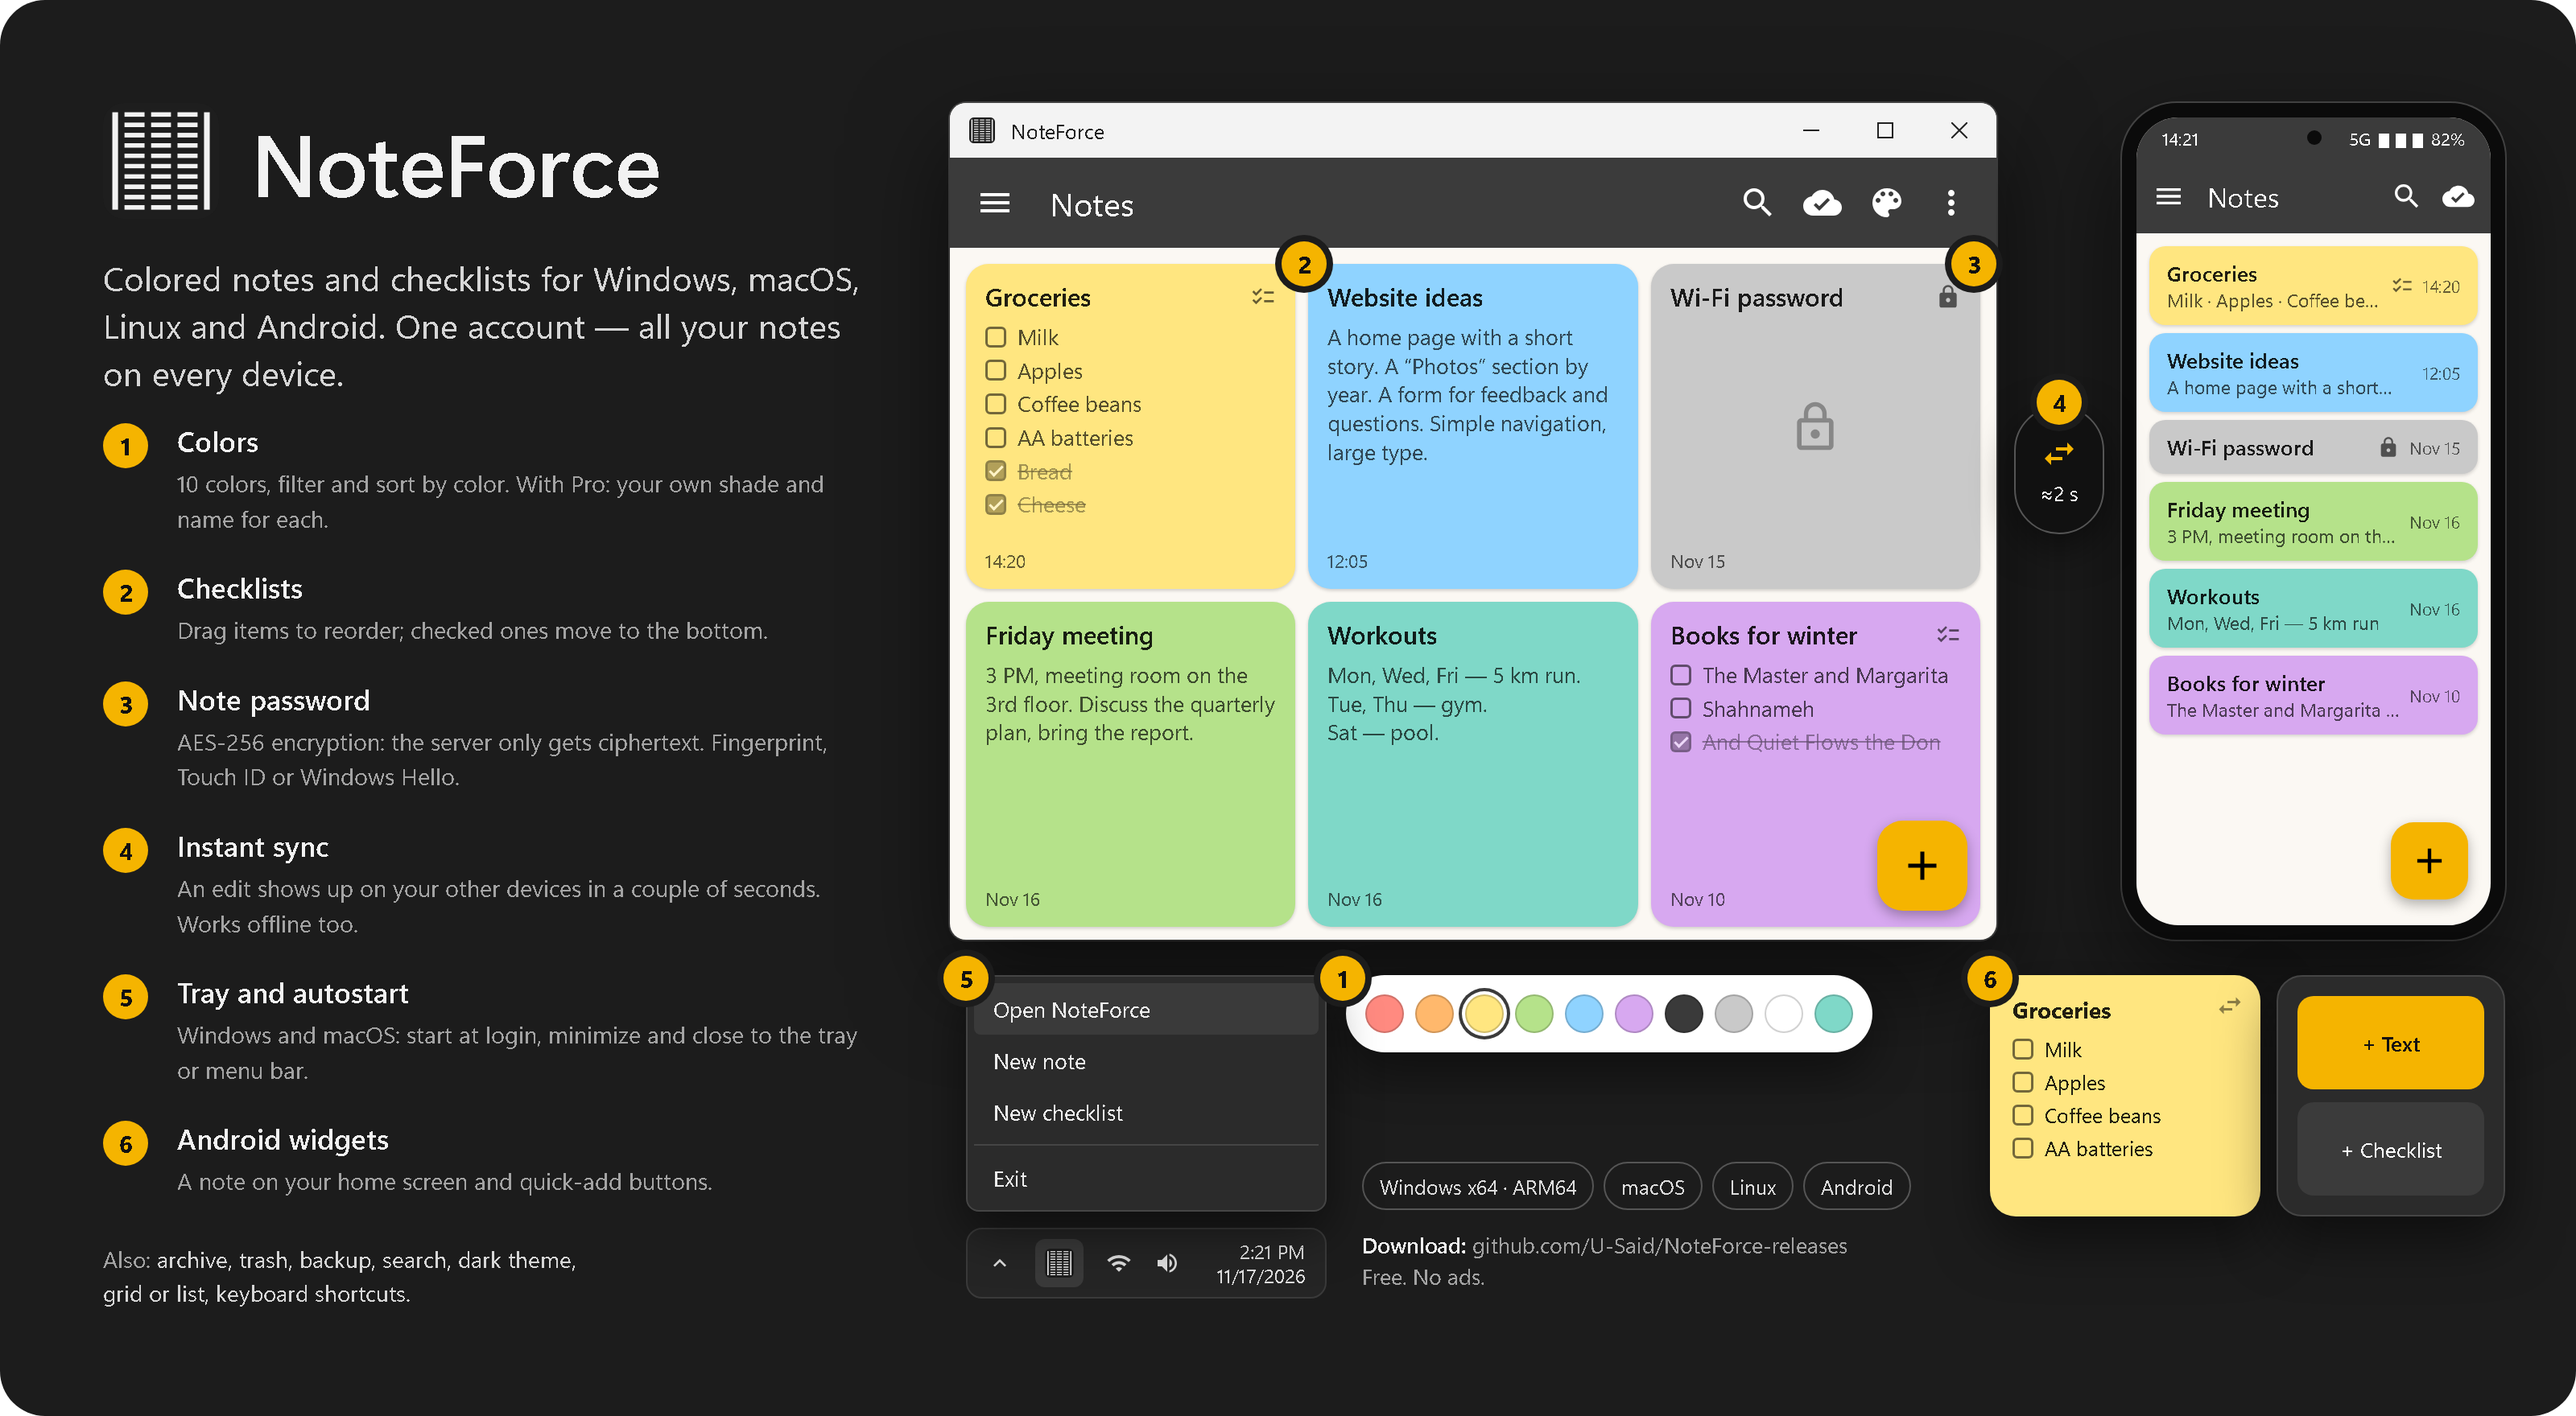
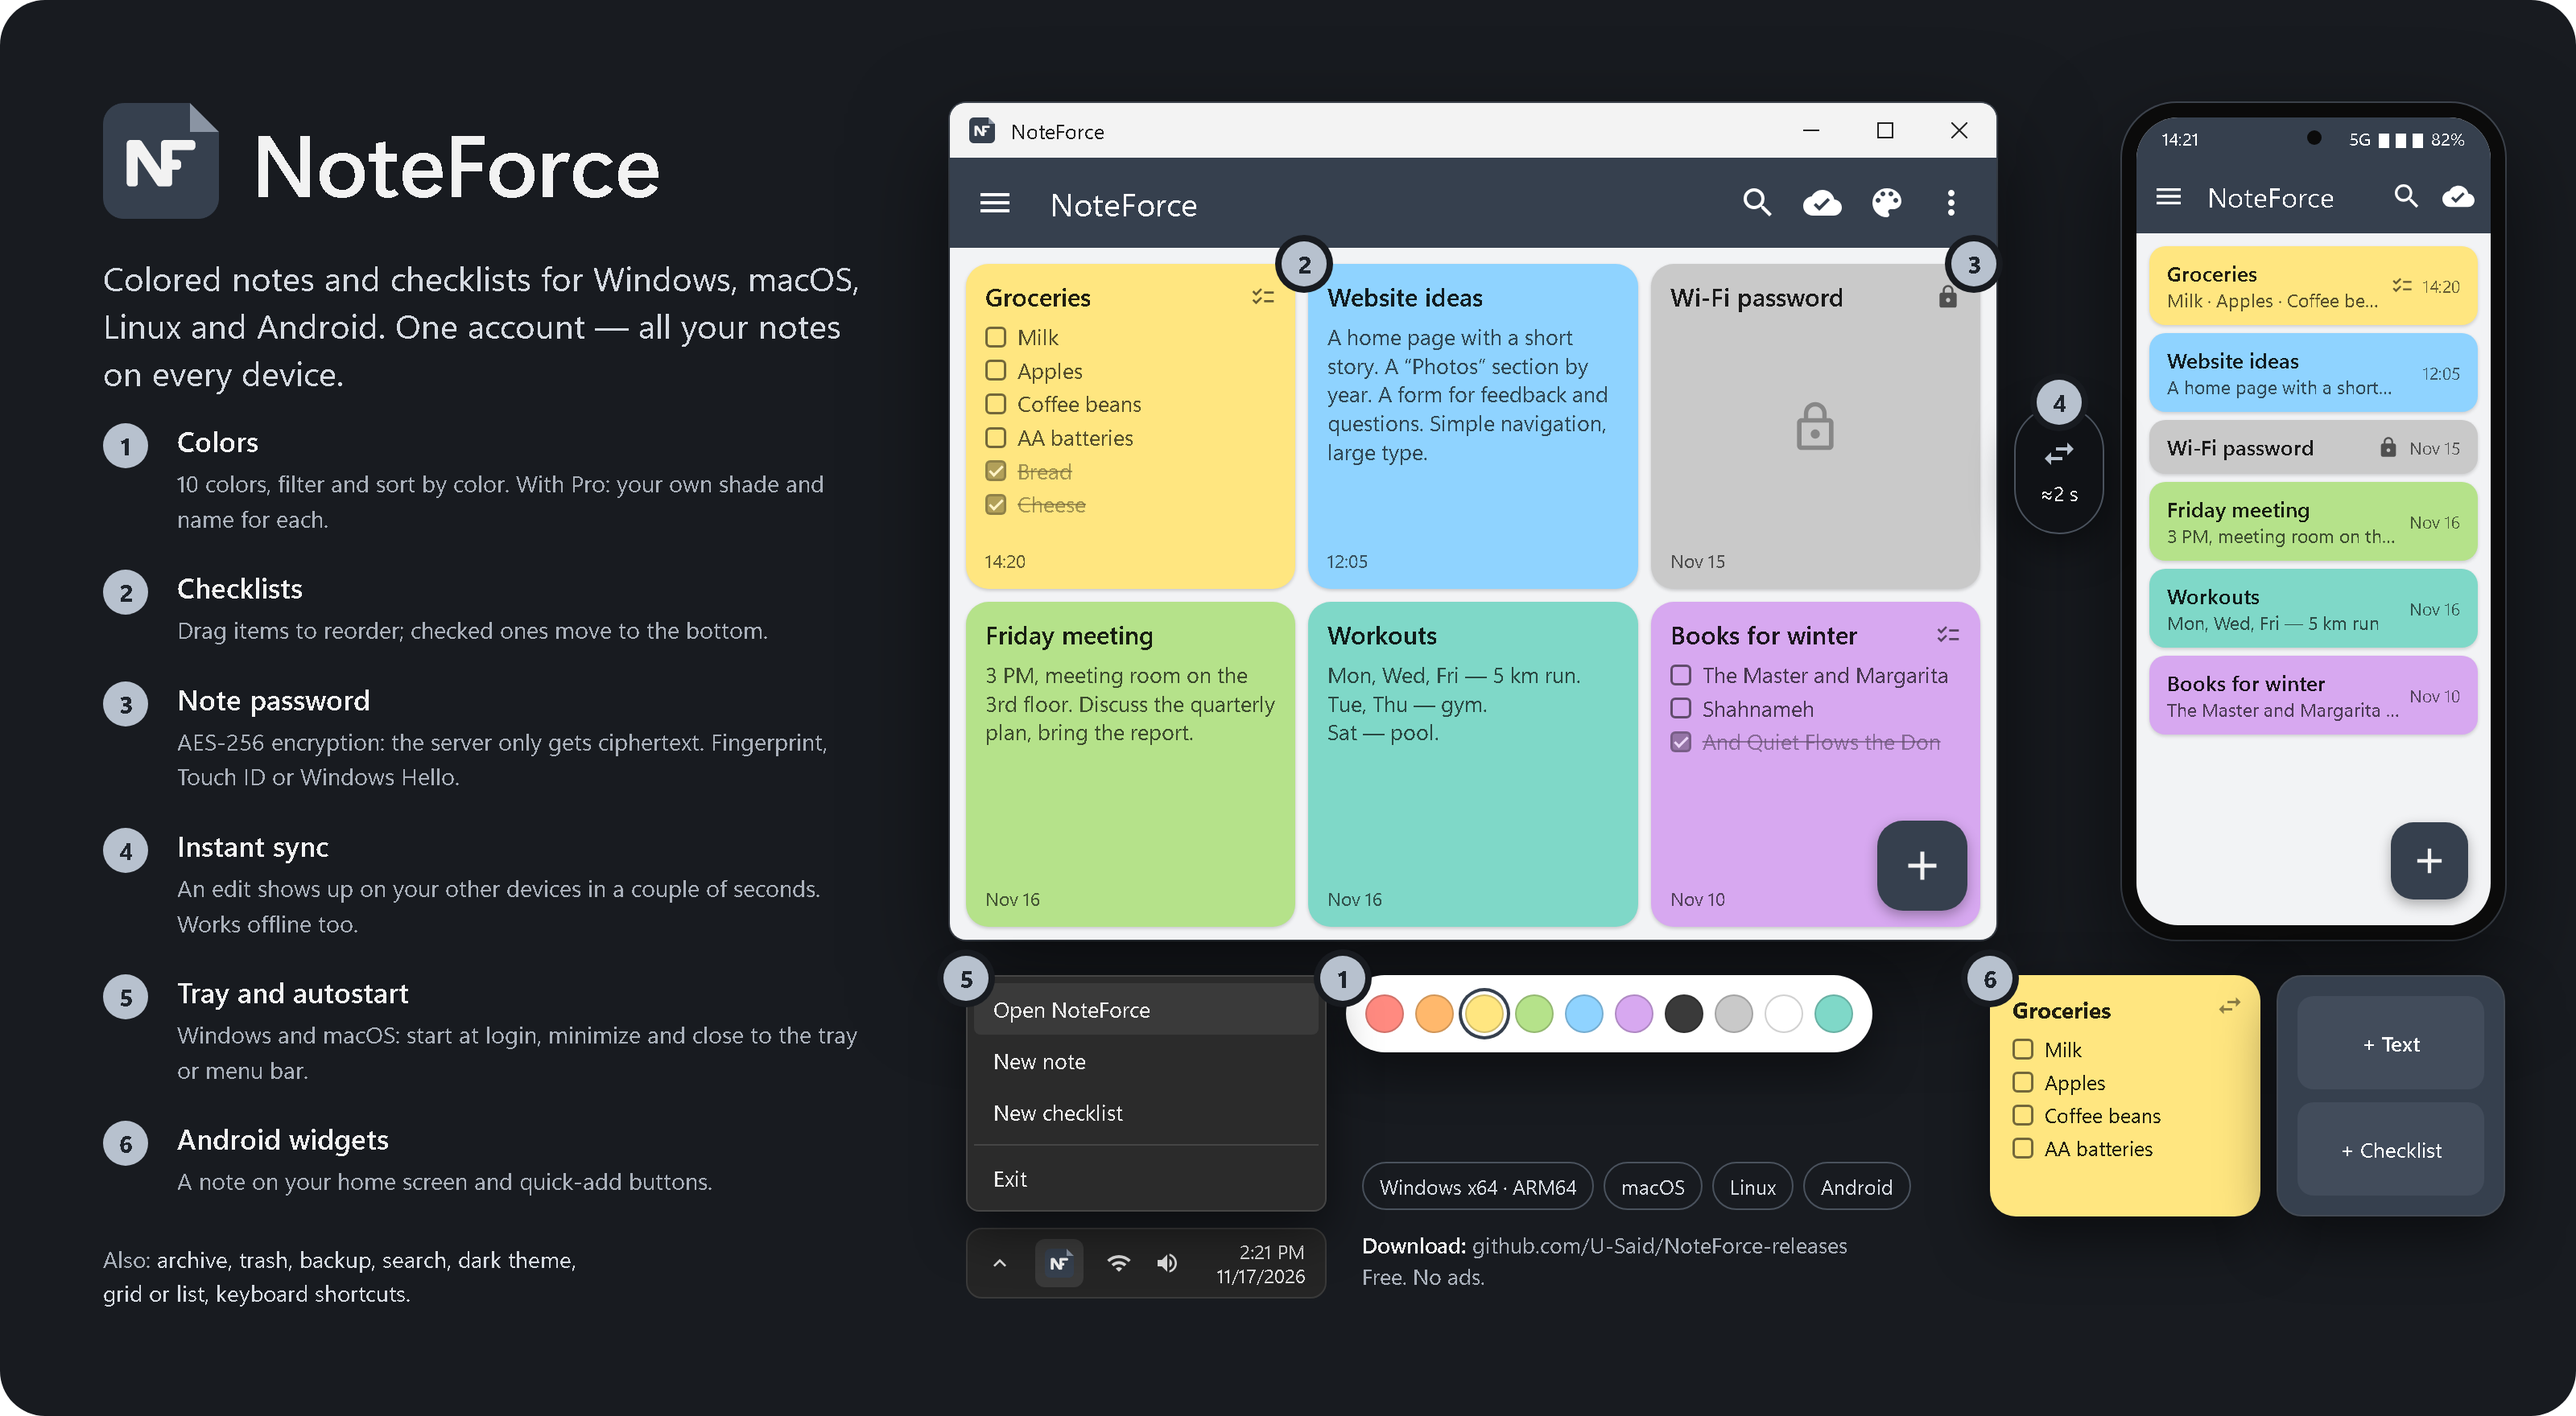
NoteForce 1.6.3: new look and billboard; password entered once
- assets/billboard.png in the new slate colors with the NF icon.
- Feature 3: the password is entered once and the note opens by itself; on a computer locked
  notes stay open until the window is closed to the tray or the app quits, on Android until you leave.
- Note that Windows on ARM, macOS and Linux are still 1.6.2 for now.

diff --git a/README.md b/README.md
@@ -17,6 +17,8 @@ Colored notes and checklists for Windows, macOS, Linux and Android. One account 
 | **macOS 12 or later** (Apple Silicon and Intel) | [NoteForce-macOS.zip](https://github.com/U-Said/NoteForce-releases/releases/latest/download/NoteForce-macOS.zip) |
 | **Linux** (x64, desktops with GTK 3: Ubuntu 22.04+, Debian 12+, Fedora, Mint 21+ and others) | [NoteForce-Linux.tar.gz](https://github.com/U-Said/NoteForce-releases/releases/latest/download/NoteForce-Linux.tar.gz) |
 
+*Windows on ARM, macOS and Linux are still version 1.6.2 for now (their build servers are temporarily unavailable): there the password is asked each time a locked note is opened. Version 1.6.3 for them will follow.*
+
 **Android users of version 1.5 or earlier:** version 1.6 has to be installed once from scratch — see [Install and update](#install-and-update).
 
 The links always point to the latest version. All versions are in [Releases](https://github.com/U-Said/NoteForce-releases/releases).
@@ -25,7 +27,7 @@ The links always point to the latest version. All versions are in [Releases](htt
 
 1. **Colors.** 10 colors; notes can be filtered and sorted by color. With Pro, each of the 10 colors can get your own shade and name.
 2. **Checklists.** Drag items to reorder; checked items move to the bottom. “Check all” and “Delete checked” are in the note’s ⋮ menu.
-3. **Note password.** A locked note is encrypted on the device (AES-256-GCM); the server only receives ciphertext. It asks for the password, a fingerprint (Android), Touch ID (Mac) or Windows Hello every time you open it.
+3. **Note password.** A locked note is encrypted on the device (AES-256-GCM); the server only receives ciphertext. You enter the password, a fingerprint (Android), Touch ID (Mac) or Windows Hello once: the note opens by itself as soon as the password is right. On a computer locked notes then stay open until you close the NoteForce window to the tray or quit the app (minimizing does not close them); on Android, until you leave the app.
 4. **Instant sync.** An edit on one device appears on your other devices a couple of seconds after you stop typing. Offline everything works as usual, and changes are sent when you are back online.
 5. **Tray and autostart (Windows and macOS).** NoteForce can start at login and live in the system tray or the Mac menu bar. Its menu creates a note or a checklist right away.
 6. **Android widgets.** “Note” shows a chosen note on the home screen: tap a new widget to choose the note, the ⇄ button in the corner changes it. “Quick note” creates a text note or a checklist with one tap.
@@ -101,6 +103,8 @@ NoteForce is free and has no ads. If it helps you, you can say thanks with a don
 | **macOS 12 и новее** (Apple Silicon и Intel) | [NoteForce-macOS.zip](https://github.com/U-Said/NoteForce-releases/releases/latest/download/NoteForce-macOS.zip) |
 | **Linux** (x64, рабочий стол с GTK 3: Ubuntu 22.04+, Debian 12+, Fedora, Mint 21+ и другие) | [NoteForce-Linux.tar.gz](https://github.com/U-Said/NoteForce-releases/releases/latest/download/NoteForce-Linux.tar.gz) |
 
+*Для Windows на ARM, macOS и Linux пока версия 1.6.2 (их серверы сборки временно недоступны): там пароль спрашивается при каждом открытии заблокированной заметки. Версия 1.6.3 для них появится позже.*
+
 **У кого на Android стоит версия 1.5 или более ранняя:** версию 1.6 нужно один раз установить заново — см. [Установка и обновление](#установка-и-обновление).
 
 Ссылки всегда ведут на последнюю версию. Все версии лежат в разделе [Releases](https://github.com/U-Said/NoteForce-releases/releases).
@@ -109,7 +113,7 @@ NoteForce is free and has no ads. If it helps you, you can say thanks with a don
 
 1. **Цвета.** 10 цветов, заметки можно отфильтровать и отсортировать по цвету. С Pro у каждого из 10 цветов может быть свой оттенок и название.
 2. **Чек-листы.** Пункты перетаскиваются, отмеченные уходят вниз. В меню ⋮ заметки есть «Отметить все» и «Удалить отмеченные».
-3. **Пароль на заметки.** Содержимое заблокированной заметки шифруется на устройстве (AES-256-GCM), на сервер уходит только шифротекст. При каждом открытии заметка спрашивает пароль, отпечаток (Android), Touch ID (Mac) или Windows Hello.
+3. **Пароль на заметки.** Содержимое заблокированной заметки шифруется на устройстве (AES-256-GCM), на сервер уходит только шифротекст. Пароль, отпечаток (Android), Touch ID (Mac) или Windows Hello вводится один раз: заметка открывается сама, как только пароль верный. Дальше на компьютере заблокированные заметки открываются без пароля, пока окно NoteForce не закрыто в трей или программа не завершена (сворачивание их не закрывает); на Android — пока вы не ушли из приложения.
 4. **Мгновенная синхронизация.** Правка на одном устройстве появляется на остальных через пару секунд после того, как вы перестали печатать. Без интернета всё работает как обычно, а изменения уходят на сервер при подключении.
 5. **Трей и автозапуск (Windows и macOS).** Программа может запускаться при входе в систему и жить в трее или строке меню Mac. Из её меню можно сразу создать заметку или чек-лист.
 6. **Виджеты Android.** «Заметка» показывает выбранную заметку на рабочем столе: нажмите на новый виджет, чтобы выбрать её, а кнопкой ⇄ в углу смените. «Быстрая заметка» создаёт текст или чек-лист одним нажатием.
